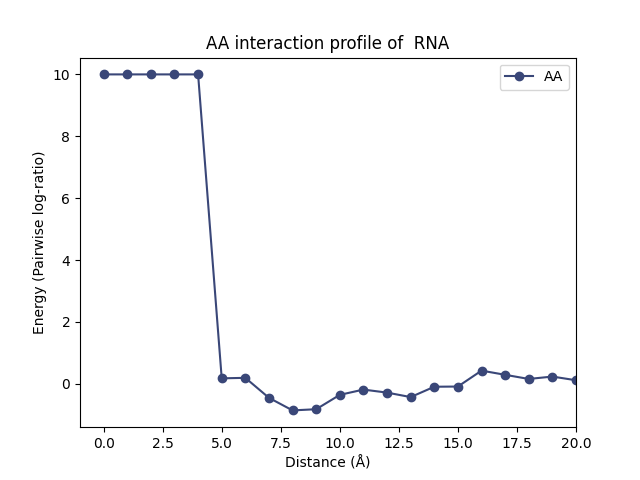
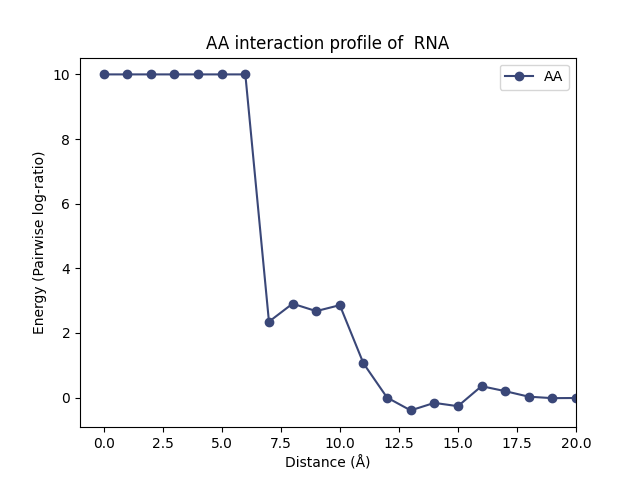
Correct script 3

diff --git a/TP_RNAScript3.py b/TP_RNAScript3.py
@@ -12,19 +12,27 @@ from TP_RNA_mainFonctions import pair_res_format
 
 
 def linear_interpolation(directory, pair_res, dist, Gibbs):
-    if dist <= 20:
-
+    if dist <= 19:
         train_pair_res = np.genfromtxt(directory + '/' + pair_res + '.txt')
 
-        x1, x2, y1, y2 = math.floor(dist), math.ceil(dist), train_pair_res[math.floor(dist), 1], train_pair_res[
-            math.ceil(dist), 1]
-        # print(x1,x2,y1,y2)
+        if 0 <= dist <= 0.5 or (dist - math.floor(dist)) > 0.5:
+            x1, x2, y1, y2 = math.floor(dist), math.ceil(dist), train_pair_res[math.floor(dist), 1],\
+                             train_pair_res[math.ceil(dist), 1]
+        else:
+            x1, x2, y1, y2 = math.floor(dist) - 1, math.ceil(dist) - 1, train_pair_res[math.floor(dist) - 1, 1], \
+                             train_pair_res[math.ceil(dist) - 1, 1]
+
+        # print(dist)
+        # x1, x2, y1, y2 = math.floor(dist), math.ceil(dist), train_pair_res[math.floor(dist), 1], train_pair_res[
+        #     math.ceil(dist), 1]
+        # print(x1, x2, y1, y2)
 
         E_scores = y1 + (dist - x1) * ((y2 - y1) / (x2 - x1))  # x2-x1=1
         # print (E_scores)
 
         Gibbs = Gibbs + E_scores
         # print (Gibbs)
+        # exit()
 
     return Gibbs
 
@@ -53,7 +61,8 @@ def main_script3(train_dir, test_file):
                                 pair_res = pair_res_format(line1, line2)  # Formalise the studied pair
                                 # print(pair_res)
 
-                                dist = calcul_dist(line1, line2)  # Calculates the distance between the two residues studied
+                                dist = calcul_dist(line1,
+                                                   line2)  # Calculates the distance between the two residues studied
                                 # print(dist)
 
                                 Gibbs_free_energy = linear_interpolation(train_dir, pair_res, dist, Gibbs_free_energy)
